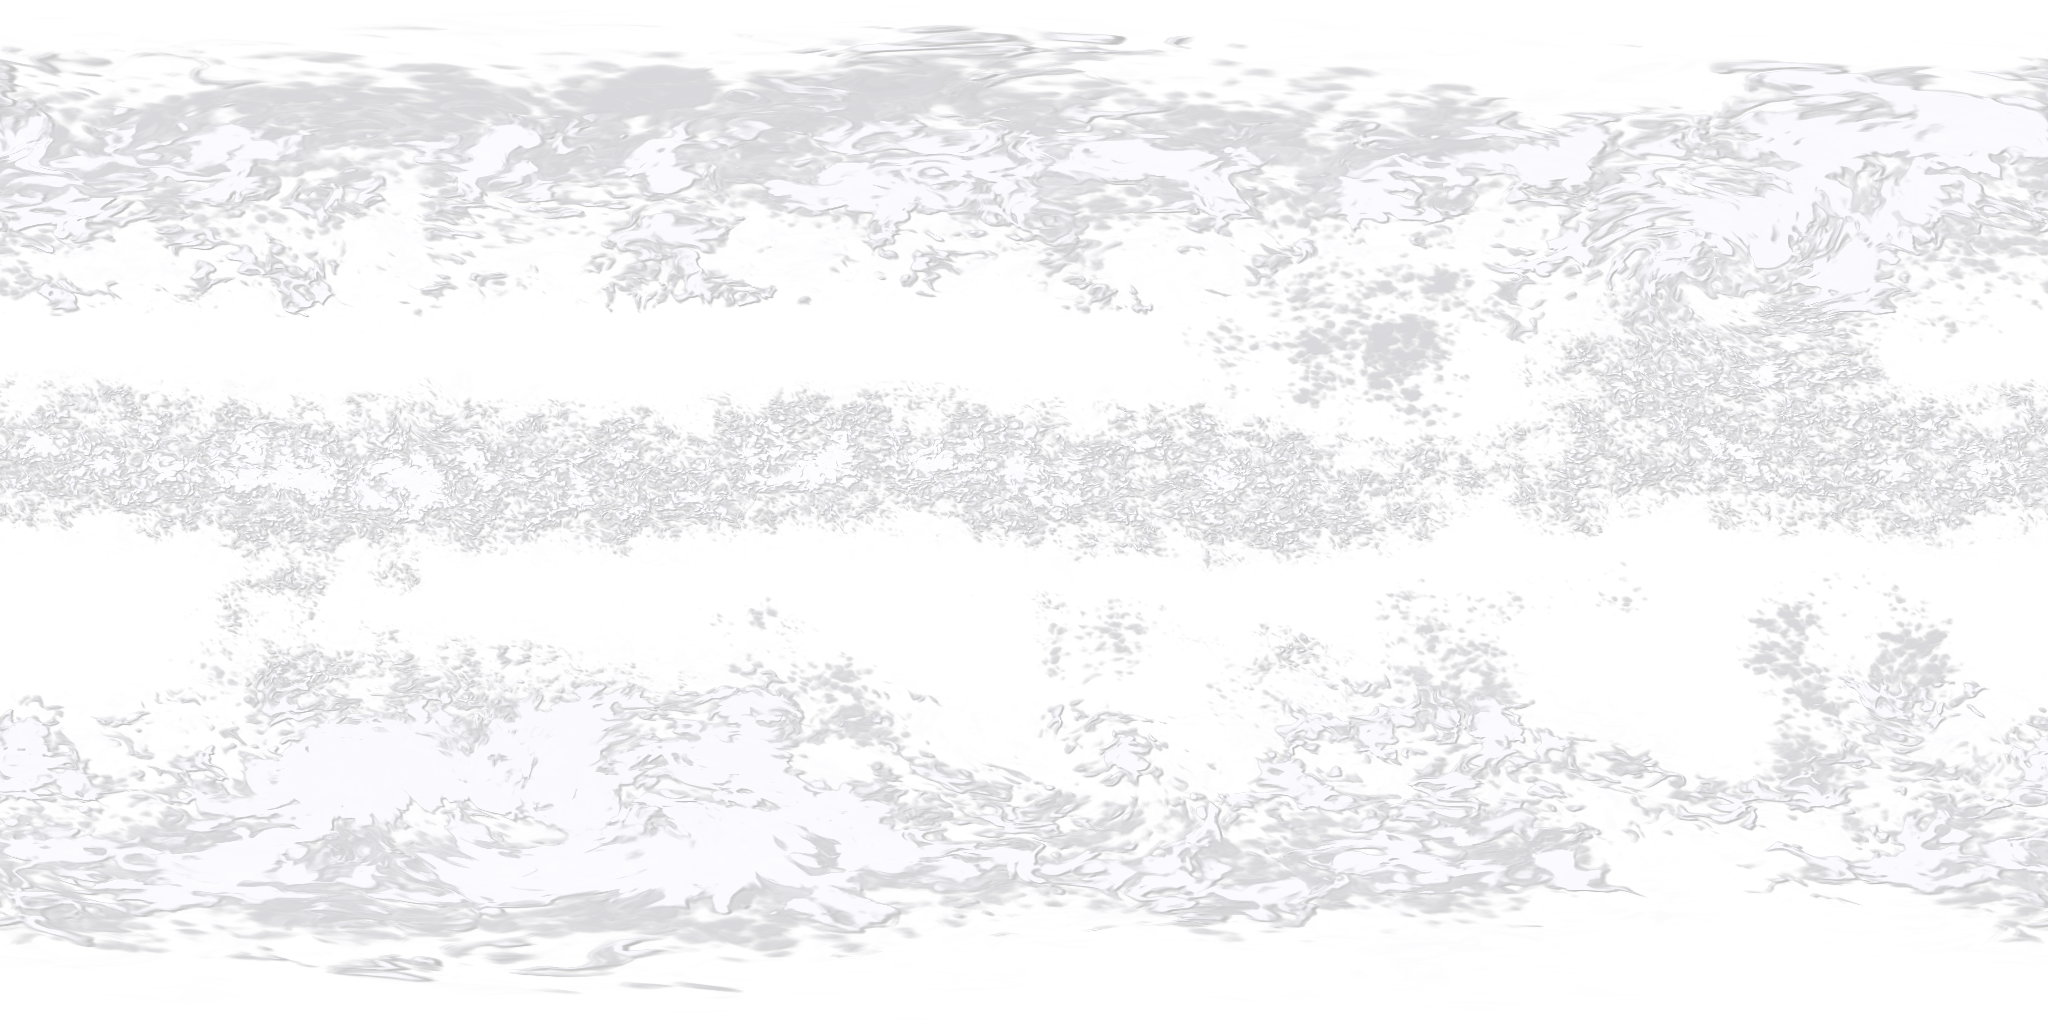
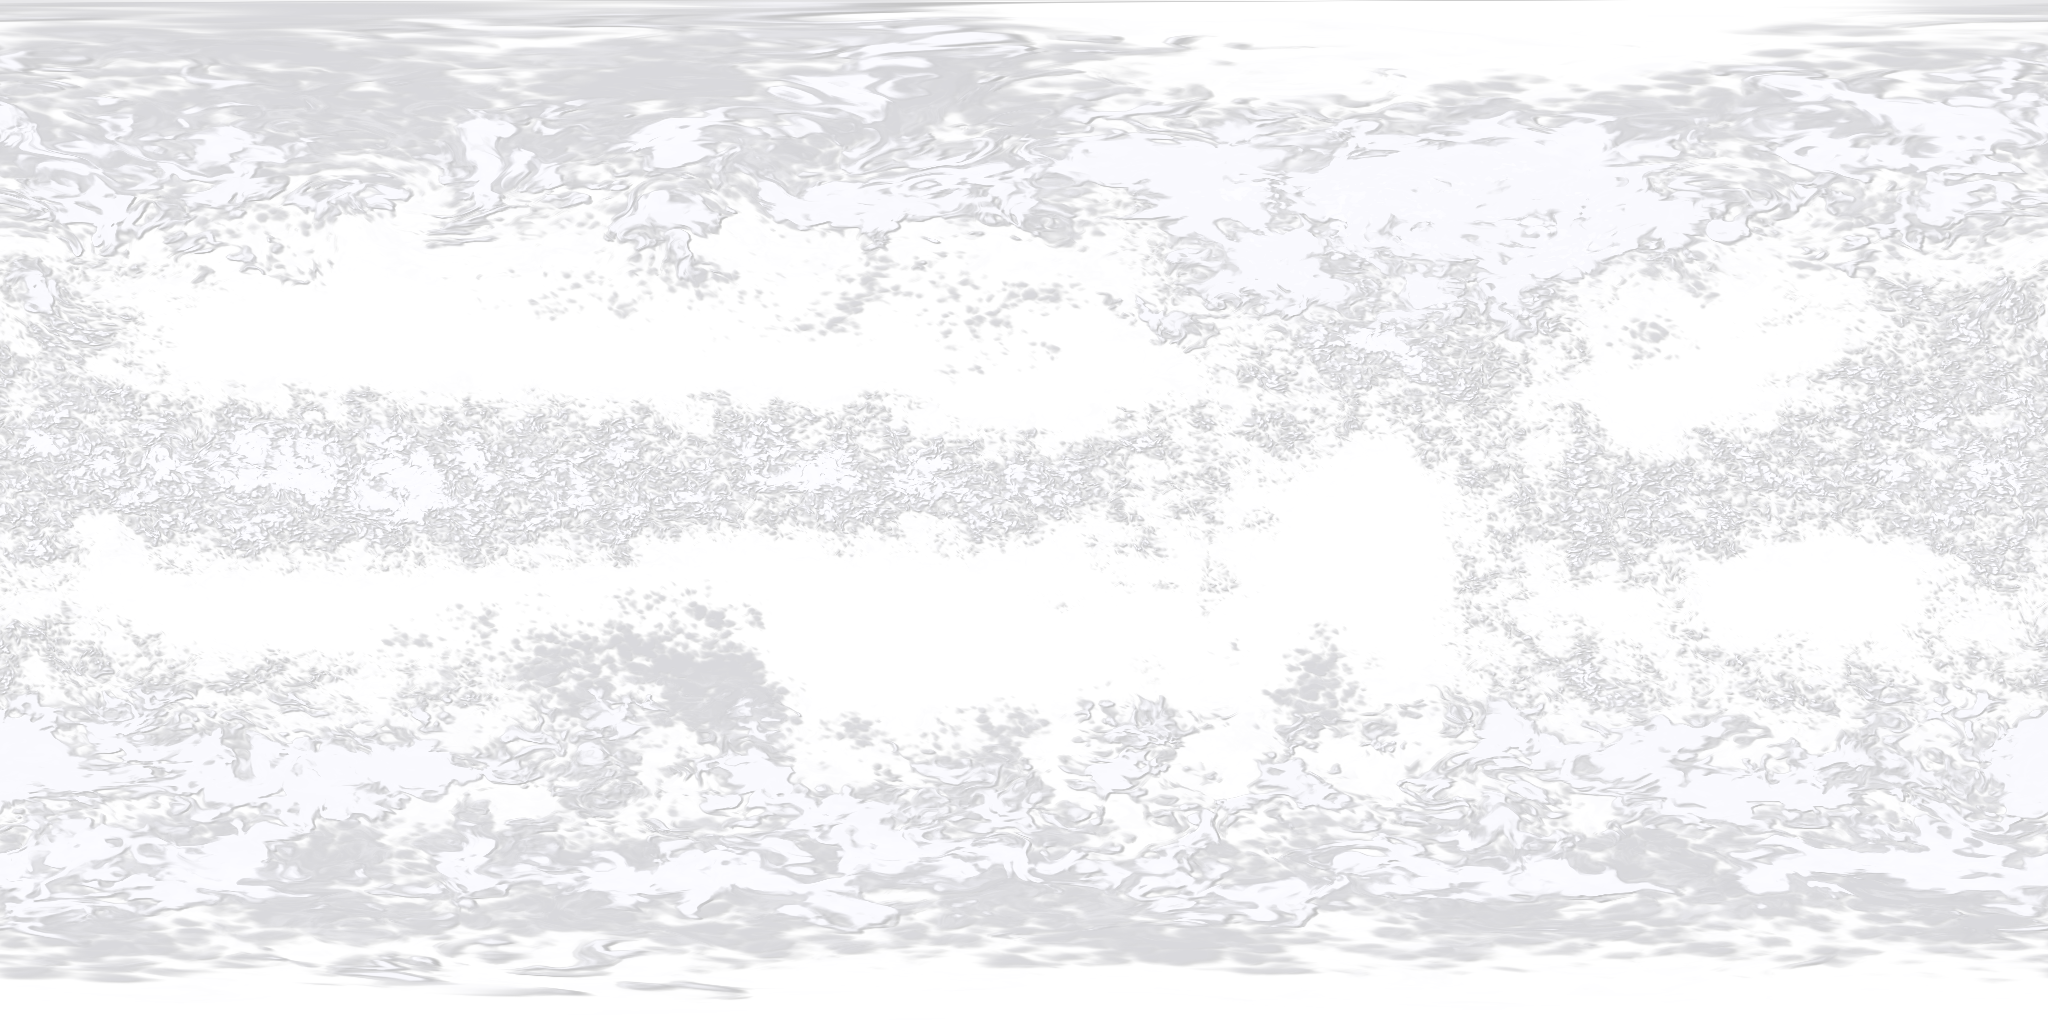
v0.0.6
markdown planet description update

diff --git a/src/components/PlanetViewer.vue b/src/components/PlanetViewer.vue
@@ -24,24 +24,37 @@
           </button>
         </div>
 
-        <div class="viewer-layout">
-          <div class="globe-stage">
-            <div ref="canvasHost" class="globe-canvas"></div>
+<div class="viewer-layout">
+  <div class="viewer-main">
+    <div class="globe-stage">
+      <div ref="canvasHost" class="globe-canvas"></div>
 
-            <div class="stage-label">
-              PLANETARY RECONNAISSANCE FEED
-            </div>
+      <div class="stage-label">
+        PLANETARY RECONNAISSANCE FEED
+      </div>
 
-            <div v-if="loading && !error" class="loading">
-              LOADING PLANETARY DATA...
-            </div>
+      <div v-if="loading && !error" class="loading">
+        LOADING PLANETARY DATA...
+      </div>
 
-            <div v-if="error" class="loading">
-              {{ error }}
-            </div>
-          </div>
+      <div v-if="error" class="loading">
+        {{ error }}
+      </div>
+    </div>
 
-          <aside class="orbital-data">
+
+    <section class="briefing-panel">
+      <div class="briefing-content">
+        <VueMarkdownIt
+          :source="cressidiumBriefing"
+          class="planet-markdown"
+        />
+      </div>
+    </section>
+
+  </div>
+
+  <aside class="orbital-data">
             <h2>PLANETARY DATA</h2>
 
             <p class="data-label">DESIGNATION</p>
@@ -132,6 +145,9 @@ import { OrbitControls } from "three/addons/controls/OrbitControls.js";
 import { createAtmosphere } from "@/utils/createAtmosphere.js";
 import { createCloudLayer } from "@/utils/createCloudLayer.js";
 import locations from "@/assets/info/planet-locations.json";
+import { VueMarkdownIt } from "@f3ve/vue-markdown-it";
+import cressidiumBriefing from "@/assets/planet-briefings/cressidium.md?raw";
+
 
 const emit = defineEmits(["close"]);
 
@@ -863,5 +879,96 @@ onBeforeUnmount(() => {
   color: var(--primary-color, #ea534c);
   white-space: nowrap;
 }
+
+.viewer-main {
+  display: grid;
+  grid-template-rows: minmax(320px, 65vh) minmax(220px, 1fr);
+  min-height: 0;
+}
+
+.briefing-panel {
+  background: #151b1f;
+  border-top: 1px solid var(--primary-color, #ea534c);
+  overflow-y: auto;
+  min-height: 0;
+}
+
+.briefing-content {
+  padding: 22px 26px 28px;
+  color: rgba(255, 255, 255, 0.87);
+  font-family: "Roboto", sans-serif;
+  line-height: 1.65;
+}
+
+
+/* PLANETARY INTELLIGENCE MARKDOWN */
+
+.planet-markdown {
+  color: #ddd;
+  line-height: 1.65;
+}
+
+.planet-markdown :deep(h1) {
+  margin: 0 0 8px;
+  font-family: "Big Shoulders Display", sans-serif;
+  font-size: 38px;
+  font-weight: 800;
+  letter-spacing: 1.5px;
+  color: #fff;
+}
+
+.planet-markdown :deep(h2) {
+  margin: 28px 0 12px;
+  font-family: "Big Shoulders Display", sans-serif;
+  font-size: 26px;
+  font-weight: 800;
+  letter-spacing: 1px;
+  text-transform: uppercase;
+  color: var(--primary-color, #ea534c);
+}
+
+.planet-markdown :deep(p) {
+  margin: 0 0 14px;
+  font-size: 14px;
+}
+
+.planet-markdown :deep(h1 + p) {
+  color: var(--primary-color, #ea534c);
+  font-size: 11px;
+  font-weight: 700;
+  letter-spacing: 1.5px;
+}
+
+.planet-markdown :deep(strong) {
+  color: #fff;
+  font-weight: 700;
+}
+
+.planet-markdown :deep(ul) {
+  list-style: square;
+  padding-left: 24px;
+  margin: 12px 0 20px;
+}
+
+.planet-markdown :deep(li) {
+  margin-bottom: 7px;
+  font-size: 14px;
+}
+
+.planet-markdown :deep(li::marker) {
+  color: var(--primary-color, #ea534c);
+}
+
+.planet-markdown :deep(a) {
+  color: var(--primary-color, #ea534c);
+}
+
+.planet-markdown :deep(blockquote) {
+  margin: 18px 0;
+  padding: 12px 16px;
+  border-left: 3px solid var(--primary-color, #ea534c);
+  background: rgba(234, 83, 76, 0.08);
+}
+
 
 </style>

diff --git a/src/assets/planet-briefings/cressidium.md b/src/assets/planet-briefings/cressidium.md
@@ -1,0 +1,63 @@
+
+# CRESSIDIUM
+
+**PLANETARY INTELLIGENCE BRIEFING // UNION ADMINISTRATIVE DEPARTMENT**
+
+**Classification:** Cradle-type Diasporan World  
+**Location:** Cascade Line  
+**Date:** 5016u  
+**Union Status:** Non-Member — Reintegration Negotiations Ongoing
+
+## Planetary Overview
+
+Cressidium is a naturally habitable terrestrial world characterized by expansive oceans, continental landmasses, and island chains. Its temperate and diverse biosphere supports both indigenous and introduced flora and fauna. Abundant natural resources have allowed the development of a prosperous industrial civilization despite approximately five centuries of galactic isolation.
+
+## Historical Background
+
+Originally colonized during the final years of the Second Committee, Cressidium became a refuge for political officials, military personnel, and their families fleeing the collapse of the former Union administration.
+
+The deliberate destruction of its omninet infrastructure and removal from colonial records effectively isolated Cressidium from the wider galaxy. Subsequent population pressures and territorial disputes led to a prolonged period of instability known as the **Barren Years**, during which the planet's contemporary nations emerged.
+
+Cressidium was recently rediscovered by a Union colonial survey expedition, initiating diplomatic efforts to restore relations.
+
+## Major Political Powers
+
+**Leandric States Alliance (LSA)**
+
+A coalition of nations originally established to resist Vestan territorial expansion. The Alliance maintains favorable relations with Union and supports reintegration into the galactic community.
+
+**Vestan Sovereignty**
+
+An authoritarian state with historical ties to the former Second Committee. Recent internal political instability and resurgent nationalist sentiment have complicated diplomatic relations. The Sovereignty remains skeptical of Union membership.
+
+**Republic of Okasnia**
+
+Another major planetary power. Current Union intelligence regarding its political alignment and strategic interests remains limited.
+
+## Technological Assessment
+
+Despite centuries of isolation, Cressidium possesses a sophisticated industrial and technological base broadly comparable to contemporary Diasporan civilizations.
+
+- Indigenous mechanized chassis manufacturing.
+- Advanced conventional industrial infrastructure.
+- Multiple operational space elevators.
+- Corvette-equivalent spacefaring vessels.
+- Limited orbital and anti-satellite capabilities.
+- Limited understanding of contemporary paracausal sciences.
+- No established indigenous schedule-tier printing infrastructure.
+
+Access to Union manufacturing technology and the omninet represents a significant opportunity for planetary development.
+
+## Current Situation
+
+The Leandric States Alliance and Vestan Sovereignty have remained engaged in a prolonged cold war characterized by diplomatic tensions, military competition, and proxy conflicts.
+
+Union Ambassador Nilan Bannerjee is currently overseeing negotiations between the two powers in **Nov Elysia**, a major metropolitan port city within LSA territory.
+
+The UNS-CV *Rio Grande*, under Captain Brigid Farris, remains in orbit to provide logistical support and security for the diplomatic delegation.
+
+As Cressidium is not currently a Union member state, all personnel are reminded to respect local sovereignty and observe established diplomatic protocols.
+
+> **THREAT ASSESSMENT:** Elevated political tensions. No active declaration of war at the time of briefing.
+
+> **MISSION PRIORITY:** Support peaceful reintegration and safeguard Union diplomatic personnel.
